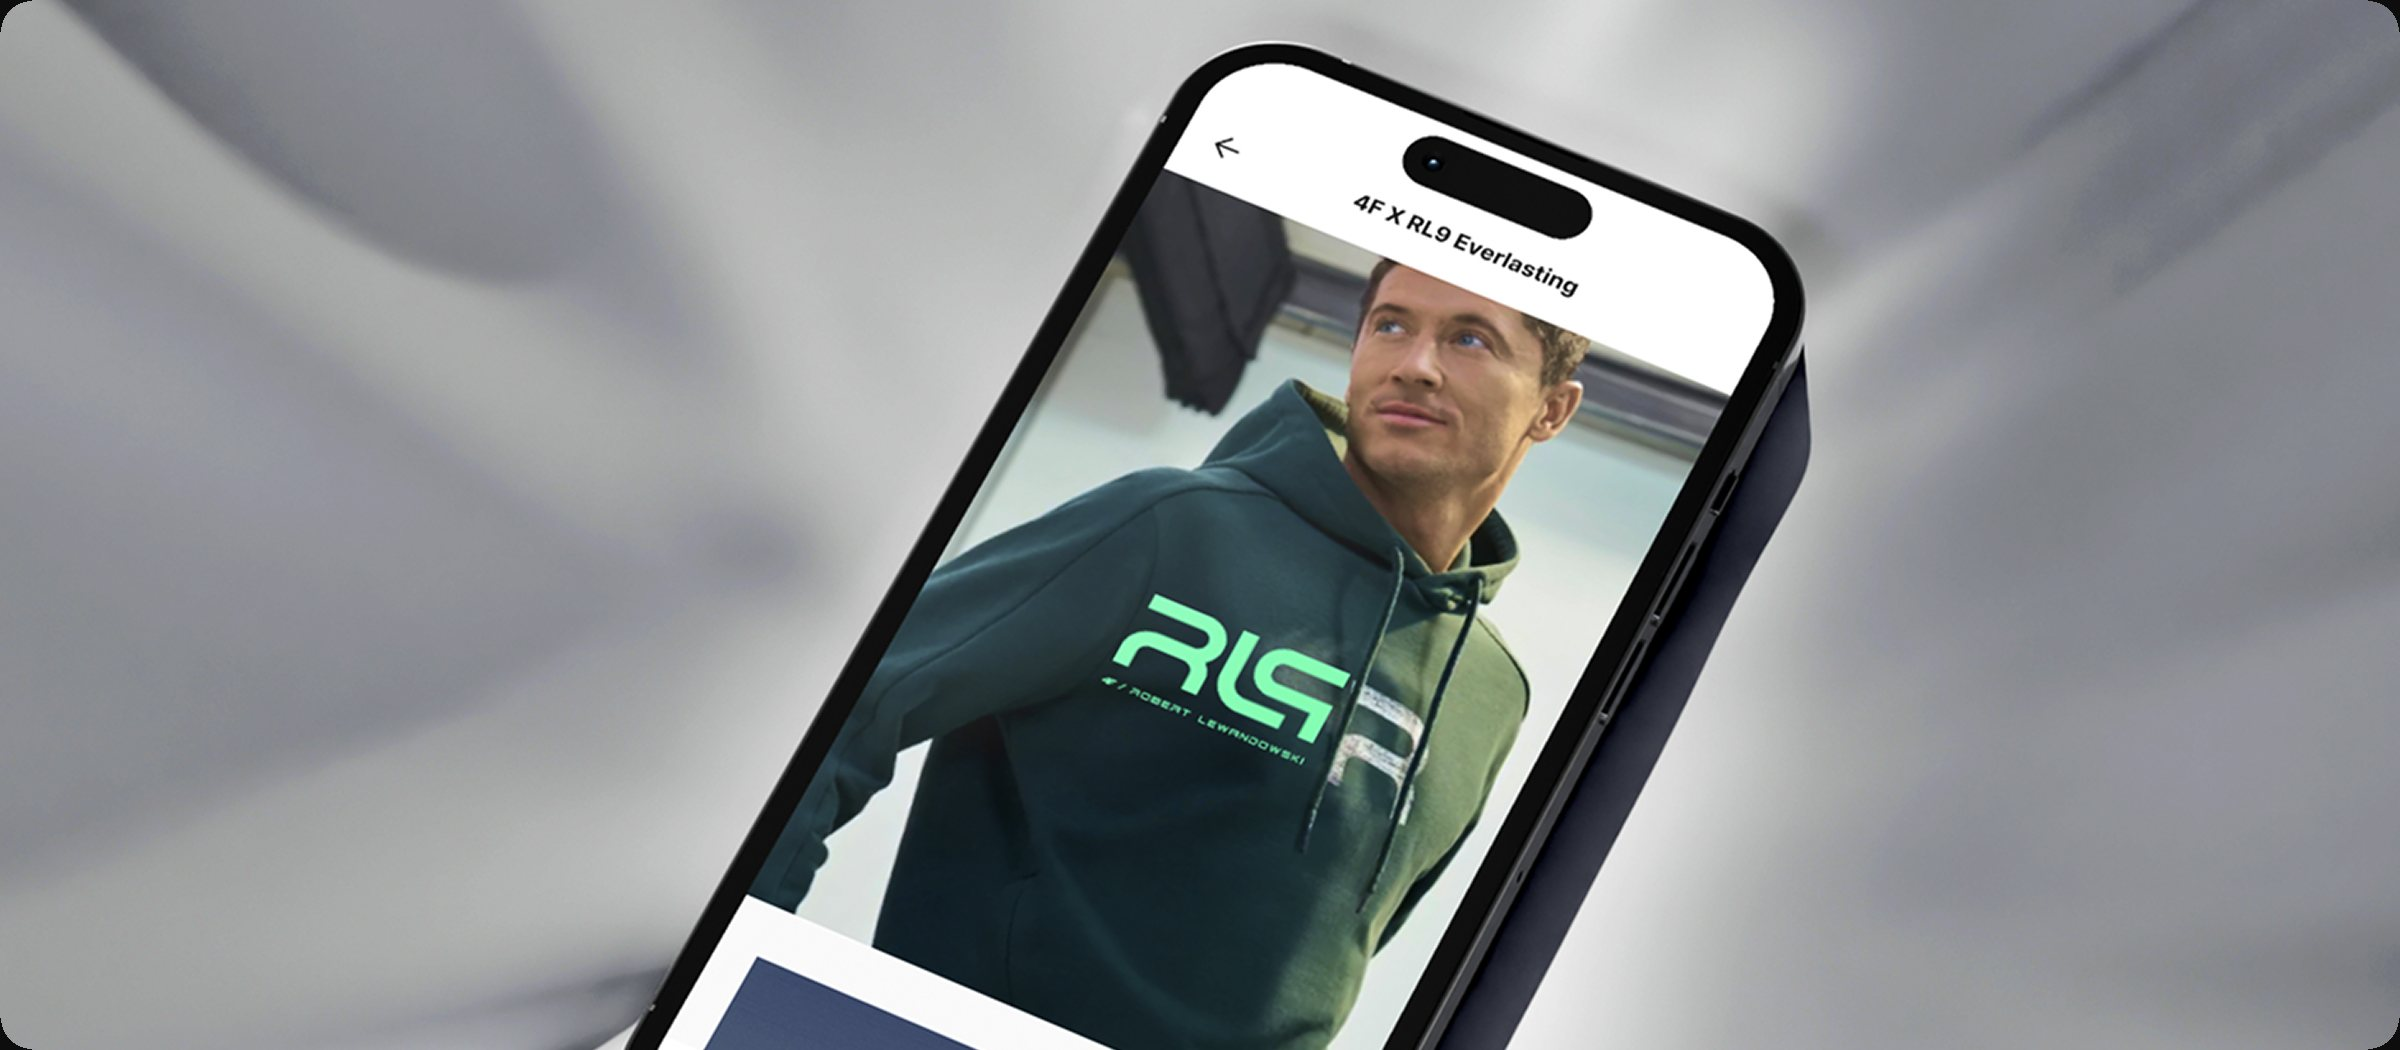
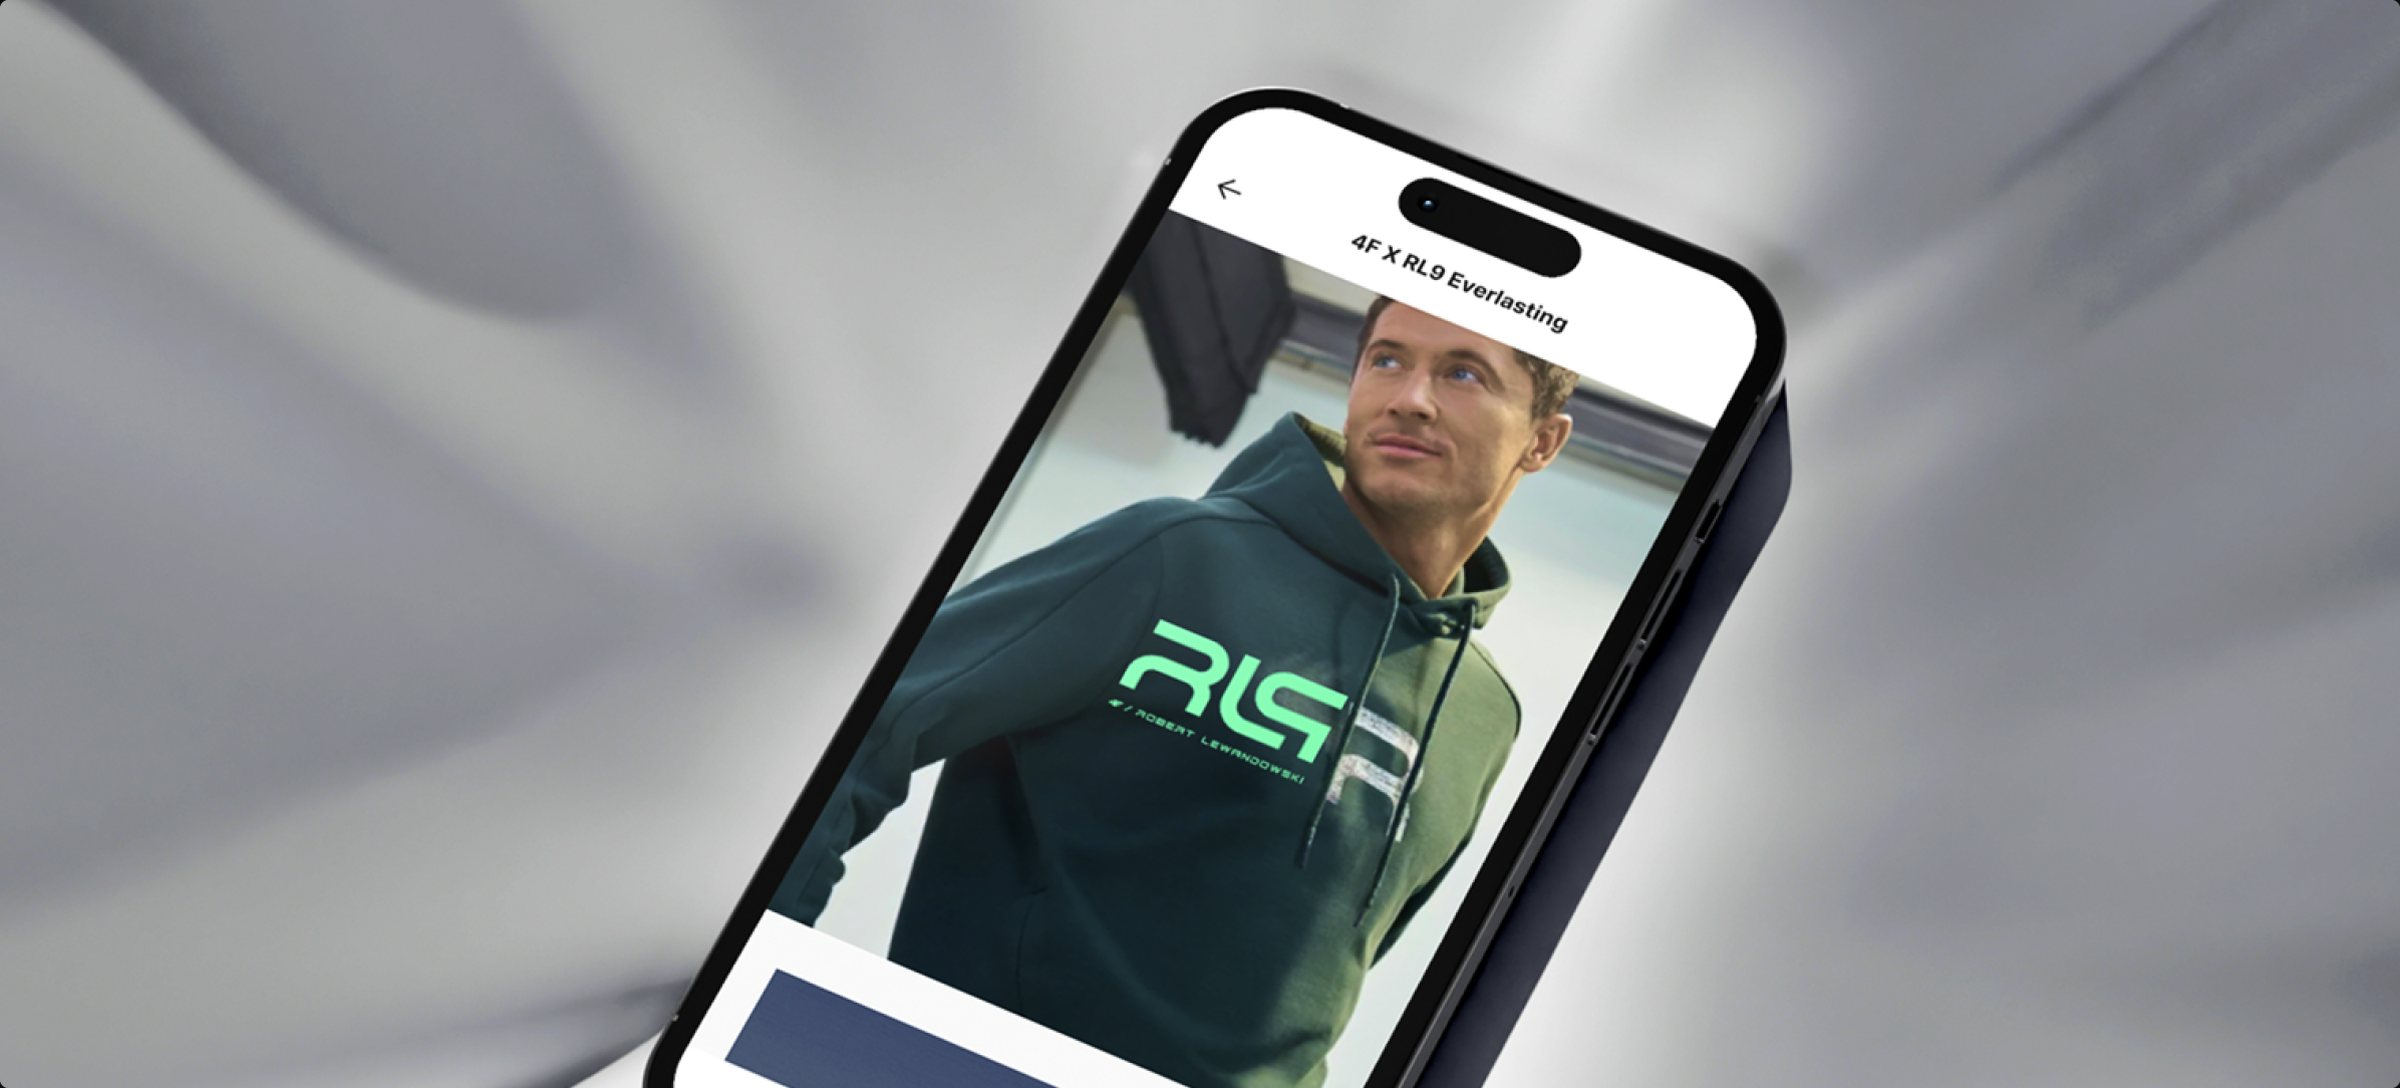
F: nowe zdjęcia headera

diff --git a/css/style.css b/css/style.css
@@ -345,7 +345,7 @@ body {
 .case-hero {
   display: flex;
   flex-direction: column;
-  padding-bottom: var(--spacing-80);
+  padding-bottom: var(--spacing-120);
 }
 .case-hero__content {
   display: flex;
@@ -405,21 +405,12 @@ body {
   display: block;
   height: 544px;
 }
-/* warstwa gradientu na zdjęciu (makieta: od połowy wysokości do #120b03) */
-.case-hero__media picture::after {
-  content: "";
-  position: absolute;
-  inset: 0;
-  border-radius: var(--radius-16);
-  background: linear-gradient(to bottom, rgba(1, 1, 7, 0) 50%, #120b03 100%);
-  pointer-events: none;
-}
 .case-hero__media img {
   width: 100%;
   height: 100%;
   object-fit: cover;
   object-position: top;
-  border-radius: var(--radius-16);
+  border-radius: var(--radius-4);
   background: #09090a;
 }
 
@@ -1660,11 +1651,7 @@ body {
   .case-info { width: 100%; }
   .case-hero__media.container { flex: none; padding-inline: var(--spacing-16); }
   .case-hero__media picture { height: 248px; }
-  .case-hero__media picture::after {
-    border-radius: var(--radius-8);
-    background: linear-gradient(to bottom, rgba(1, 1, 7, 0) 46.948%, #120b03 100%);
-  }
-  .case-hero__media img { object-position: center; border-radius: var(--radius-8); }
+  .case-hero__media img { object-position: center; }
 
   /* Doświadczenie i CV – header (makieta mobile 375) */
   .cv-hero__content {

diff --git a/projekty/4f.html b/projekty/4f.html
@@ -12,7 +12,7 @@
   <link rel="preconnect" href="https://fonts.gstatic.com" crossorigin>
   <link href="https://fonts.googleapis.com/css2?family=Poppins:wght@400;500&family=Space+Grotesk:wght@400;500&display=swap" rel="stylesheet">
 
-  <link rel="stylesheet" href="../css/style.css?v=44">
+  <link rel="stylesheet" href="../css/style.css?v=45">
 </head>
 <body>
 
@@ -68,8 +68,8 @@
 
       <div class="case-hero__media container">
         <picture>
-          <source media="(max-width: 720px)" srcset="../assets/images/projekty/4f-header-mobile.jpg?v=2">
-          <img src="../assets/images/projekty/4f-header.jpg?v=2" alt="Aplikacja mobilna 4F na ekranie telefonu" width="1200" height="528">
+          <source media="(max-width: 720px)" srcset="../assets/images/projekty/4f-header-mobile.jpg?v=3">
+          <img src="../assets/images/projekty/4f-header.jpg?v=3" alt="Aplikacja mobilna 4F na ekranie telefonu" width="1200" height="544">
         </picture>
       </div>
     </section>
@@ -434,6 +434,6 @@
     </section>
   </main>
 
-  <script src="../js/main.js?v=44"></script>
+  <script src="../js/main.js?v=45"></script>
 </body>
 </html>

diff --git a/index.html b/index.html
@@ -13,7 +13,7 @@
   <link rel="preconnect" href="https://fonts.gstatic.com" crossorigin>
   <link href="https://fonts.googleapis.com/css2?family=Poppins:wght@400;500&family=Space+Grotesk:wght@400;500&display=swap" rel="stylesheet">
 
-  <link rel="stylesheet" href="css/style.css?v=44">
+  <link rel="stylesheet" href="css/style.css?v=45">
 </head>
 <body class="page-home">
 
@@ -183,6 +183,6 @@
     </div>
   </footer>
 
-  <script src="js/main.js?v=44"></script>
+  <script src="js/main.js?v=45"></script>
 </body>
 </html>

diff --git a/doswiadczenie.html b/doswiadczenie.html
@@ -12,7 +12,7 @@
   <link rel="preconnect" href="https://fonts.gstatic.com" crossorigin>
   <link href="https://fonts.googleapis.com/css2?family=Poppins:wght@400;500&family=Space+Grotesk:wght@400;500;700&display=swap" rel="stylesheet">
 
-  <link rel="stylesheet" href="css/style.css?v=44">
+  <link rel="stylesheet" href="css/style.css?v=45">
 </head>
 <body>
 
@@ -233,6 +233,6 @@
     </section>
   </main>
 
-  <script src="js/main.js?v=44"></script>
+  <script src="js/main.js?v=45"></script>
 </body>
 </html>
